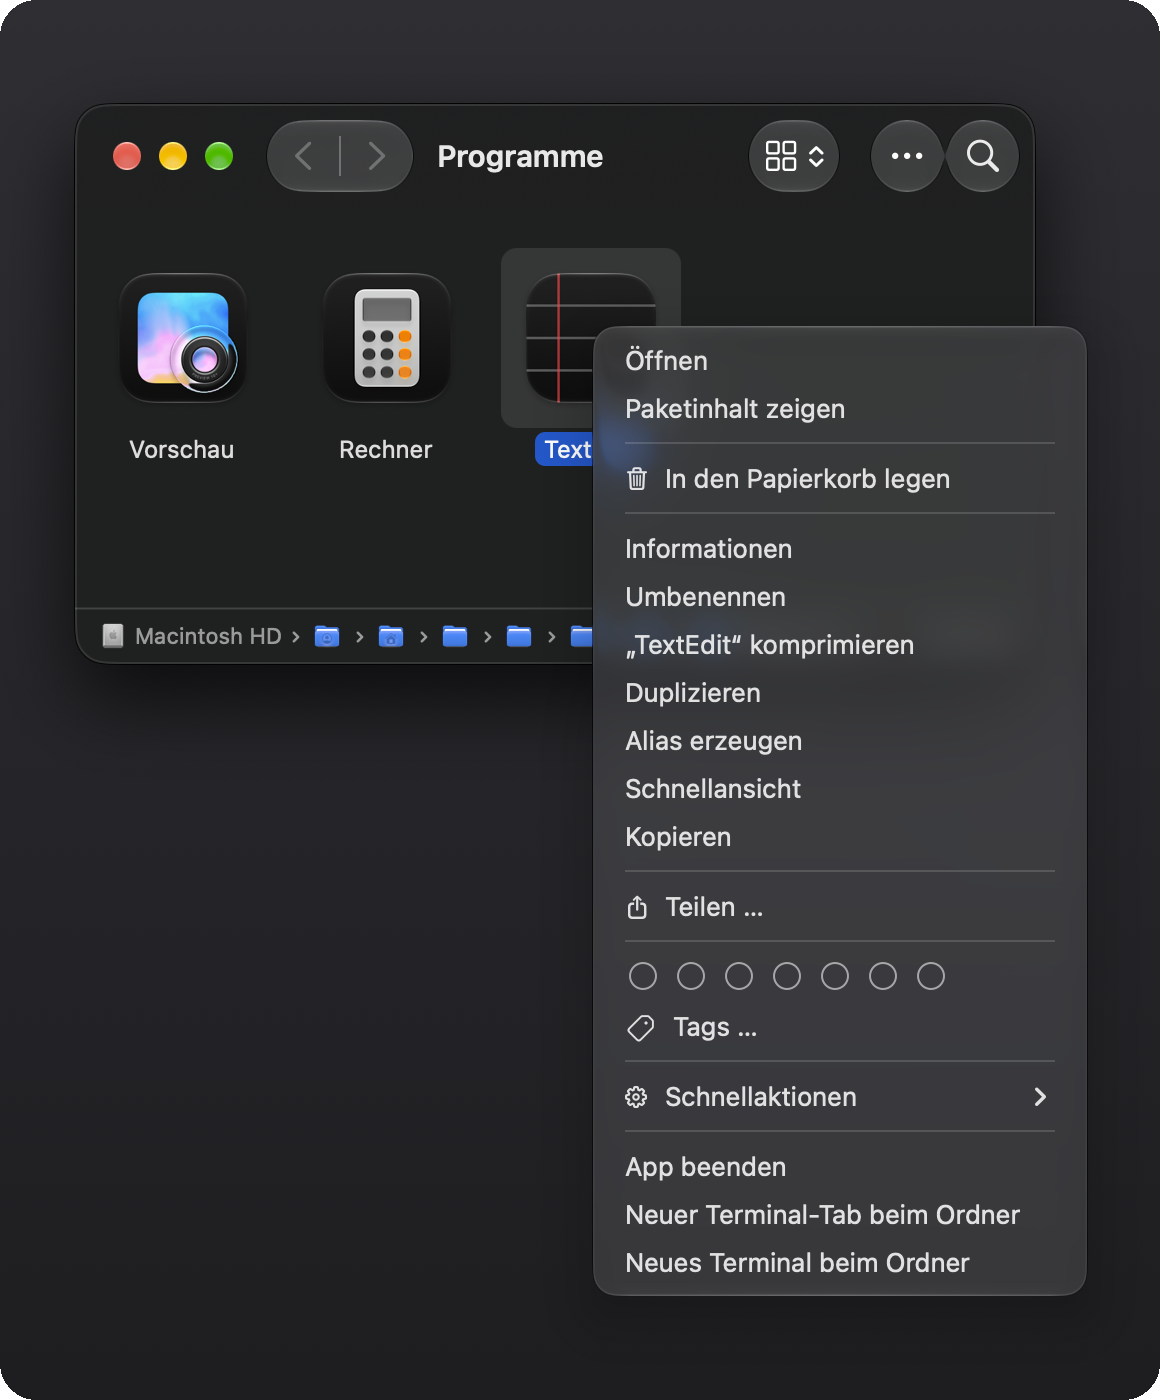
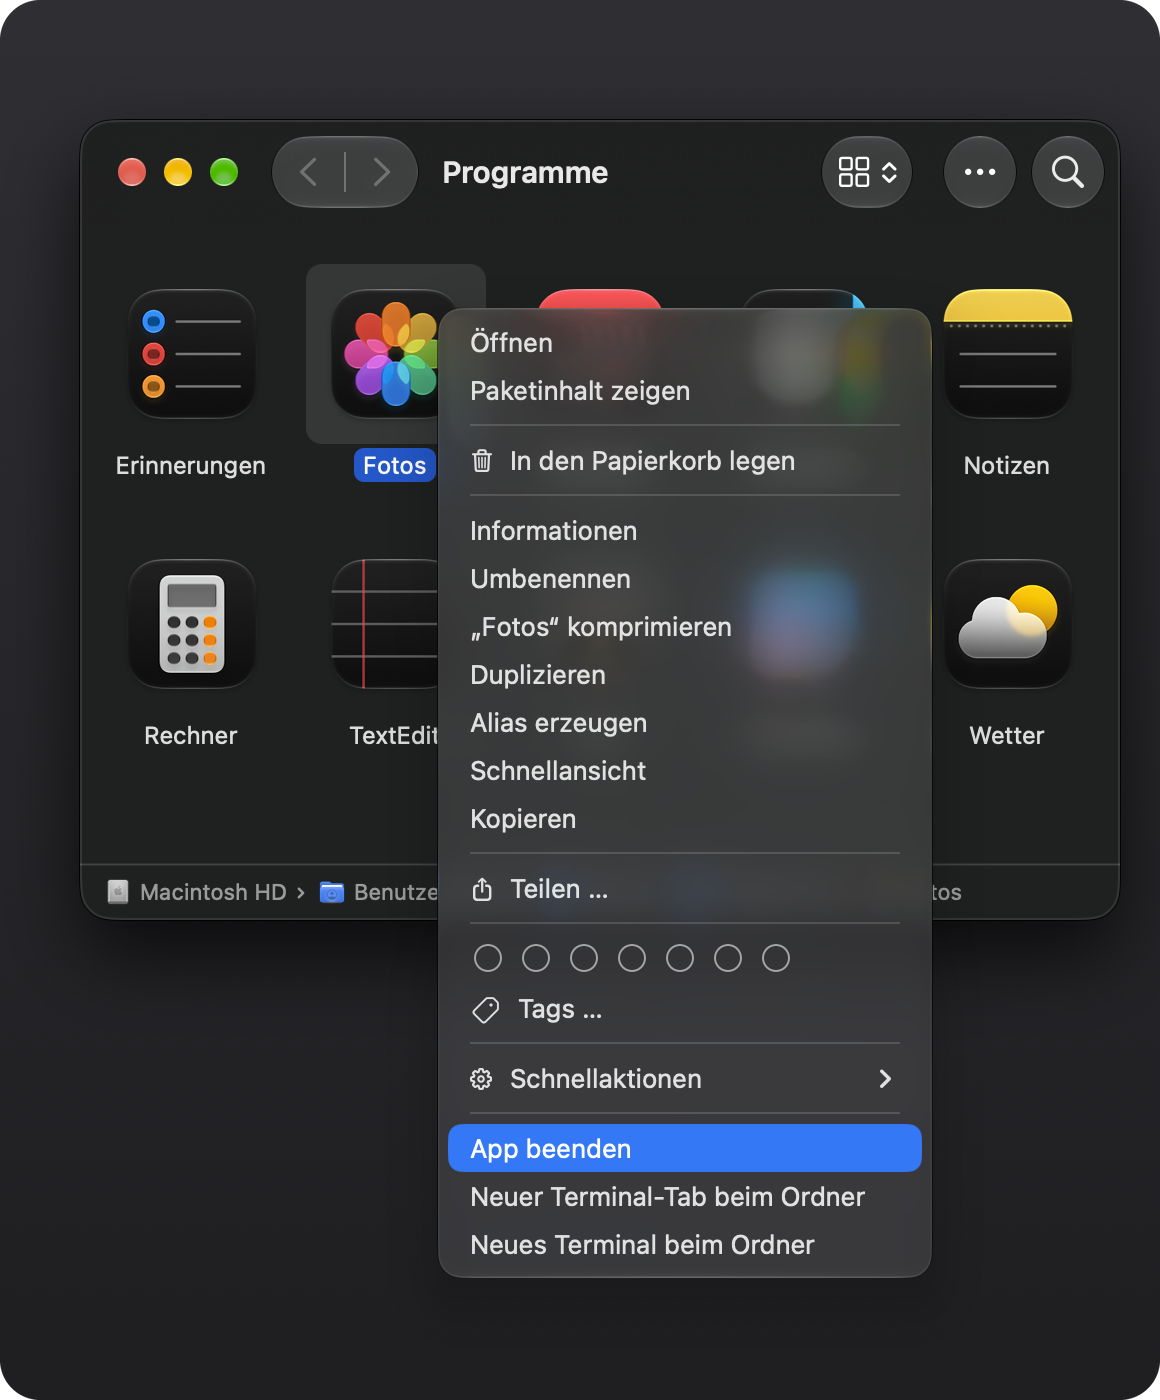
App beenden hervorheben

diff --git a/README.md b/README.md
@@ -18,7 +18,6 @@
 
 <p align="center">
   <img src="Bilder/einstellungen.png" width="380" alt="Einstellungen von Queet">
-  <img src="Bilder/rechtsklick.png" width="380" alt="Rechtsklick auf eine App im Finder mit „App beenden“">
 </p>
 
 ## Was Queet anders macht
@@ -27,8 +26,15 @@
 - Startet eine App gerade oder kommt ein Öffnen-Dialog, wartet Queet etwas länger. Apps, die beim Laden ihr Fenster wechseln, werden nicht aus Versehen beendet.
 - Auch Apps, die sich beim Schließen nur verstecken, werden beendet.
 - Menüleisten-Apps und Hintergrundprogramme fasst Queet nie an. Der Finder bleibt immer offen.
-- Rechtsklick auf eine App im Finder und „App beenden“: Queet beendet sie normal und, wenn sie hängt, hart. Bei einem Sichern-Dialog wartet Queet, bis du dich entschieden hast.
 - Kein Datenversand, kein Konto, keine Werbung. Queet nutzt nur offizielle Schnittstellen von macOS und braucht kaum Speicher.
+
+## App beenden per Rechtsklick
+
+<p align="center">
+  <img src="Bilder/rechtsklick.png" width="380" alt="Rechtsklick auf eine App im Finder mit „App beenden“">
+</p>
+
+Rechtsklick auf eine App im Finder, dann „App beenden“. Queet beendet sie zuerst normal. Hängt sie, beendet Queet sie hart, samt allem, was von ihr noch im Hintergrund läuft. Bei einem Sichern-Dialog wartet Queet, bis du dich entschieden hast.
 
 ## Installieren
 
